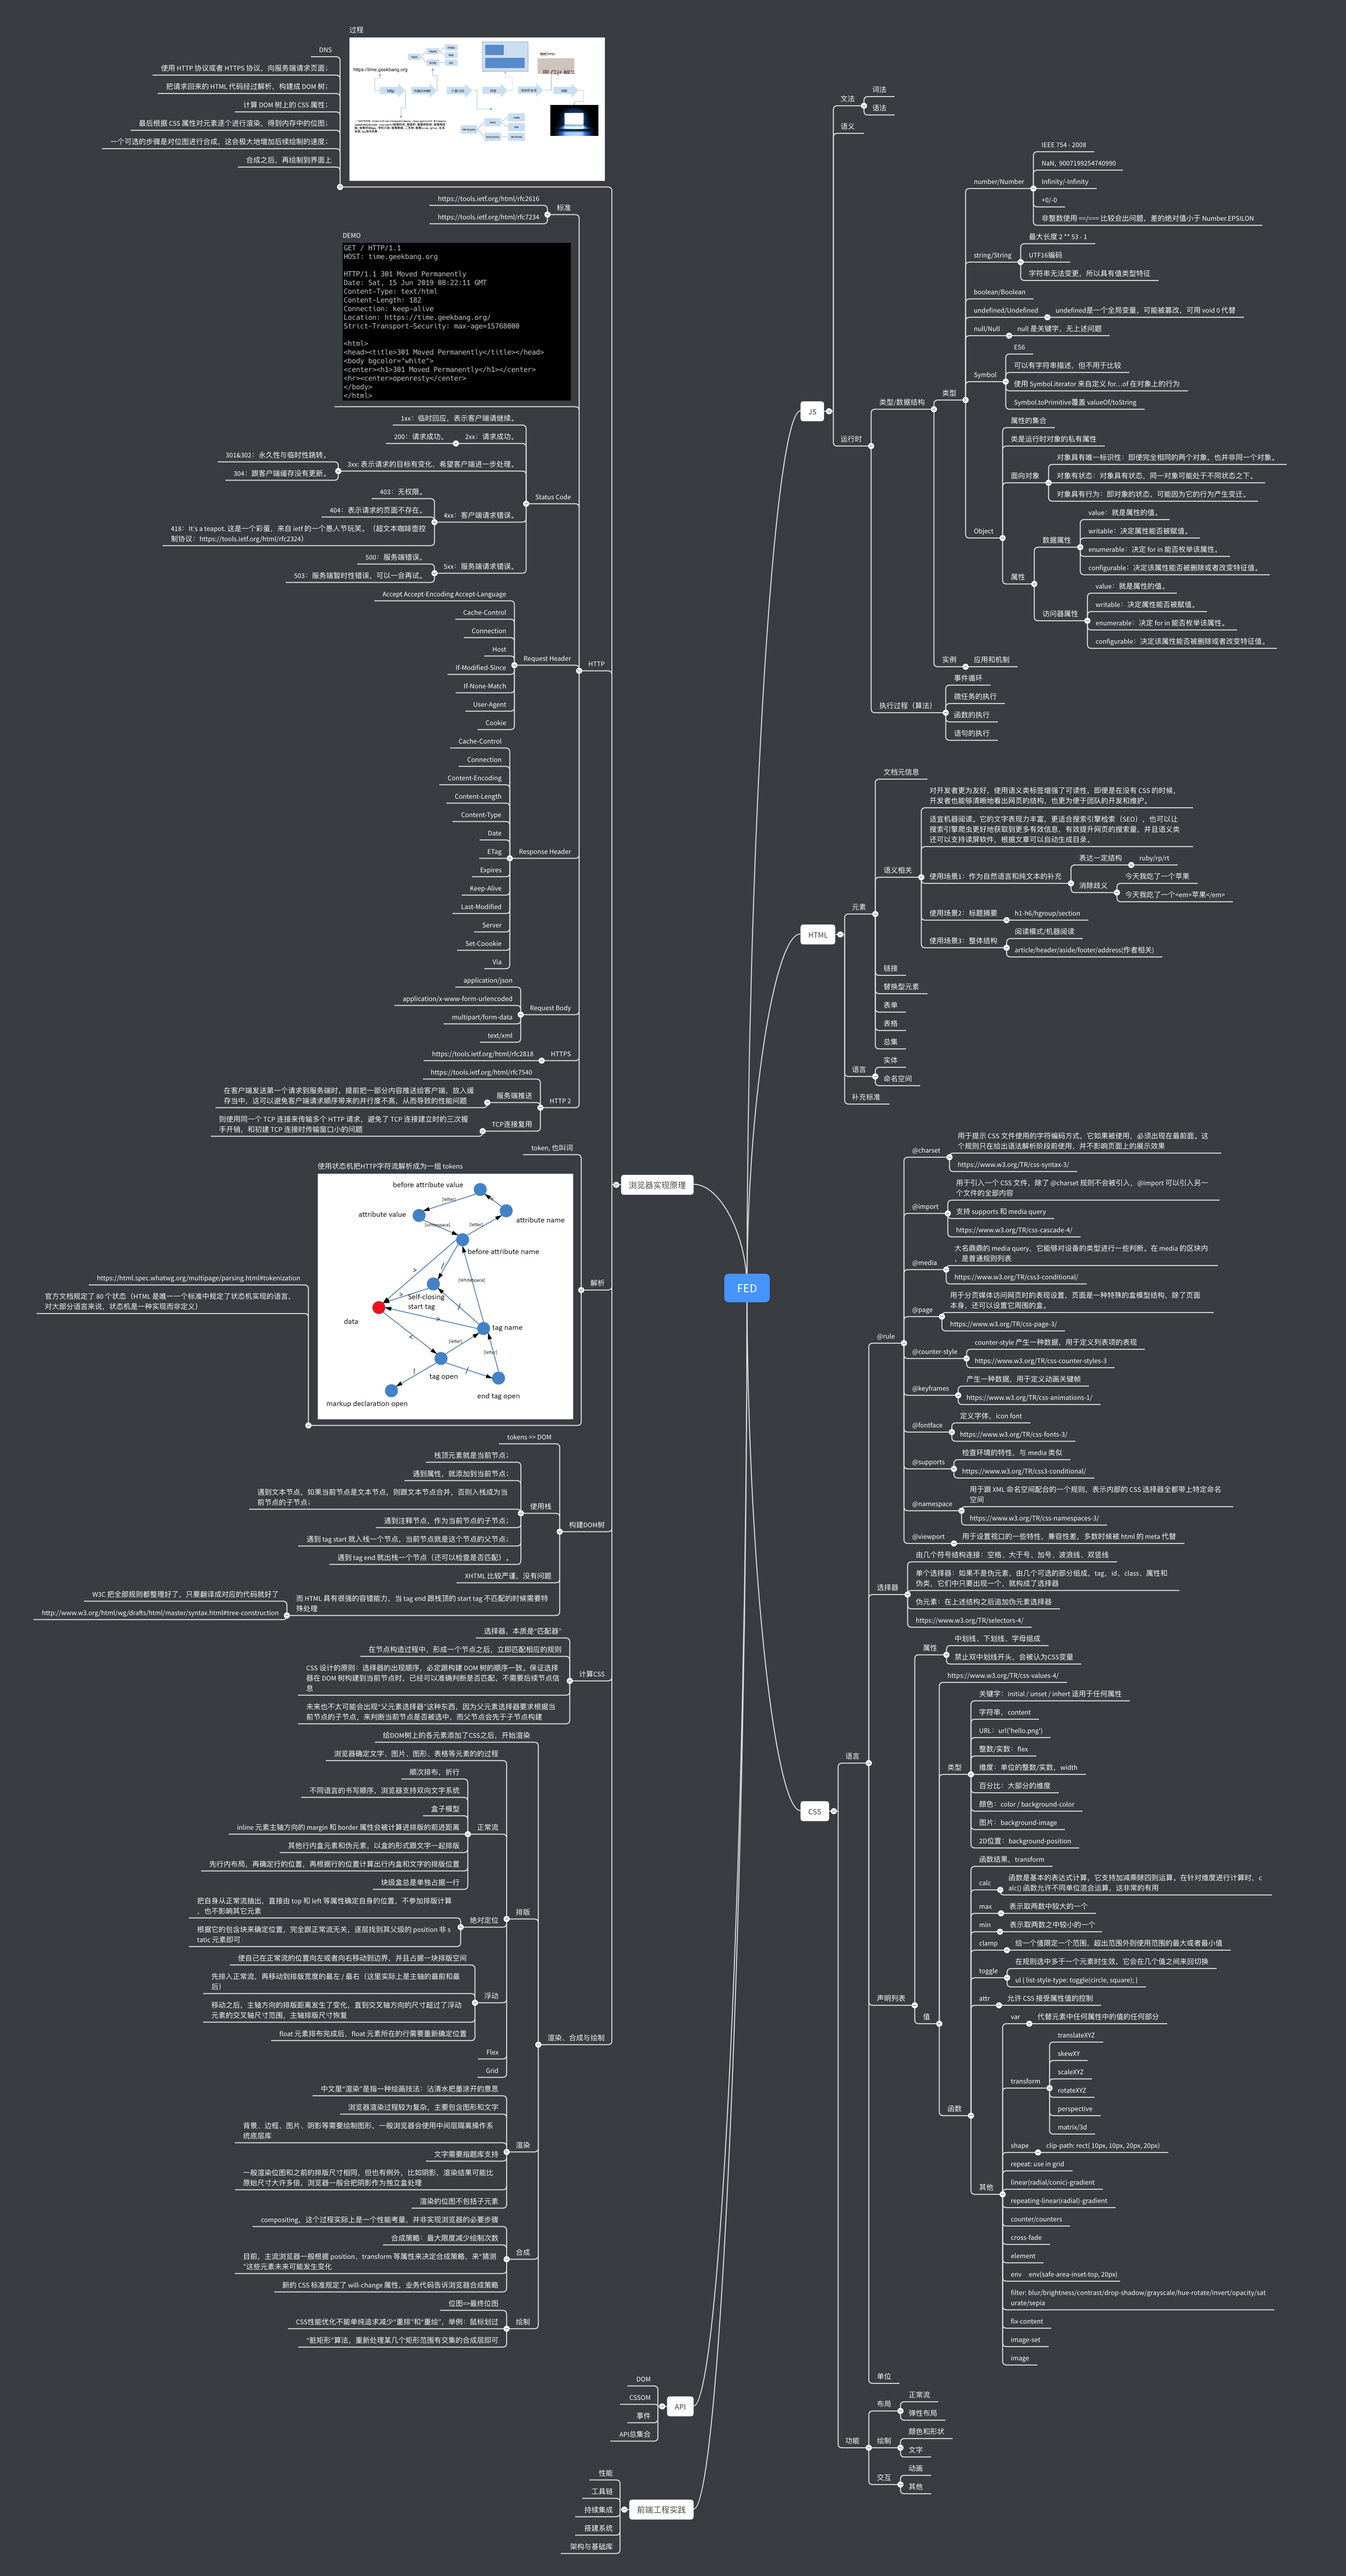
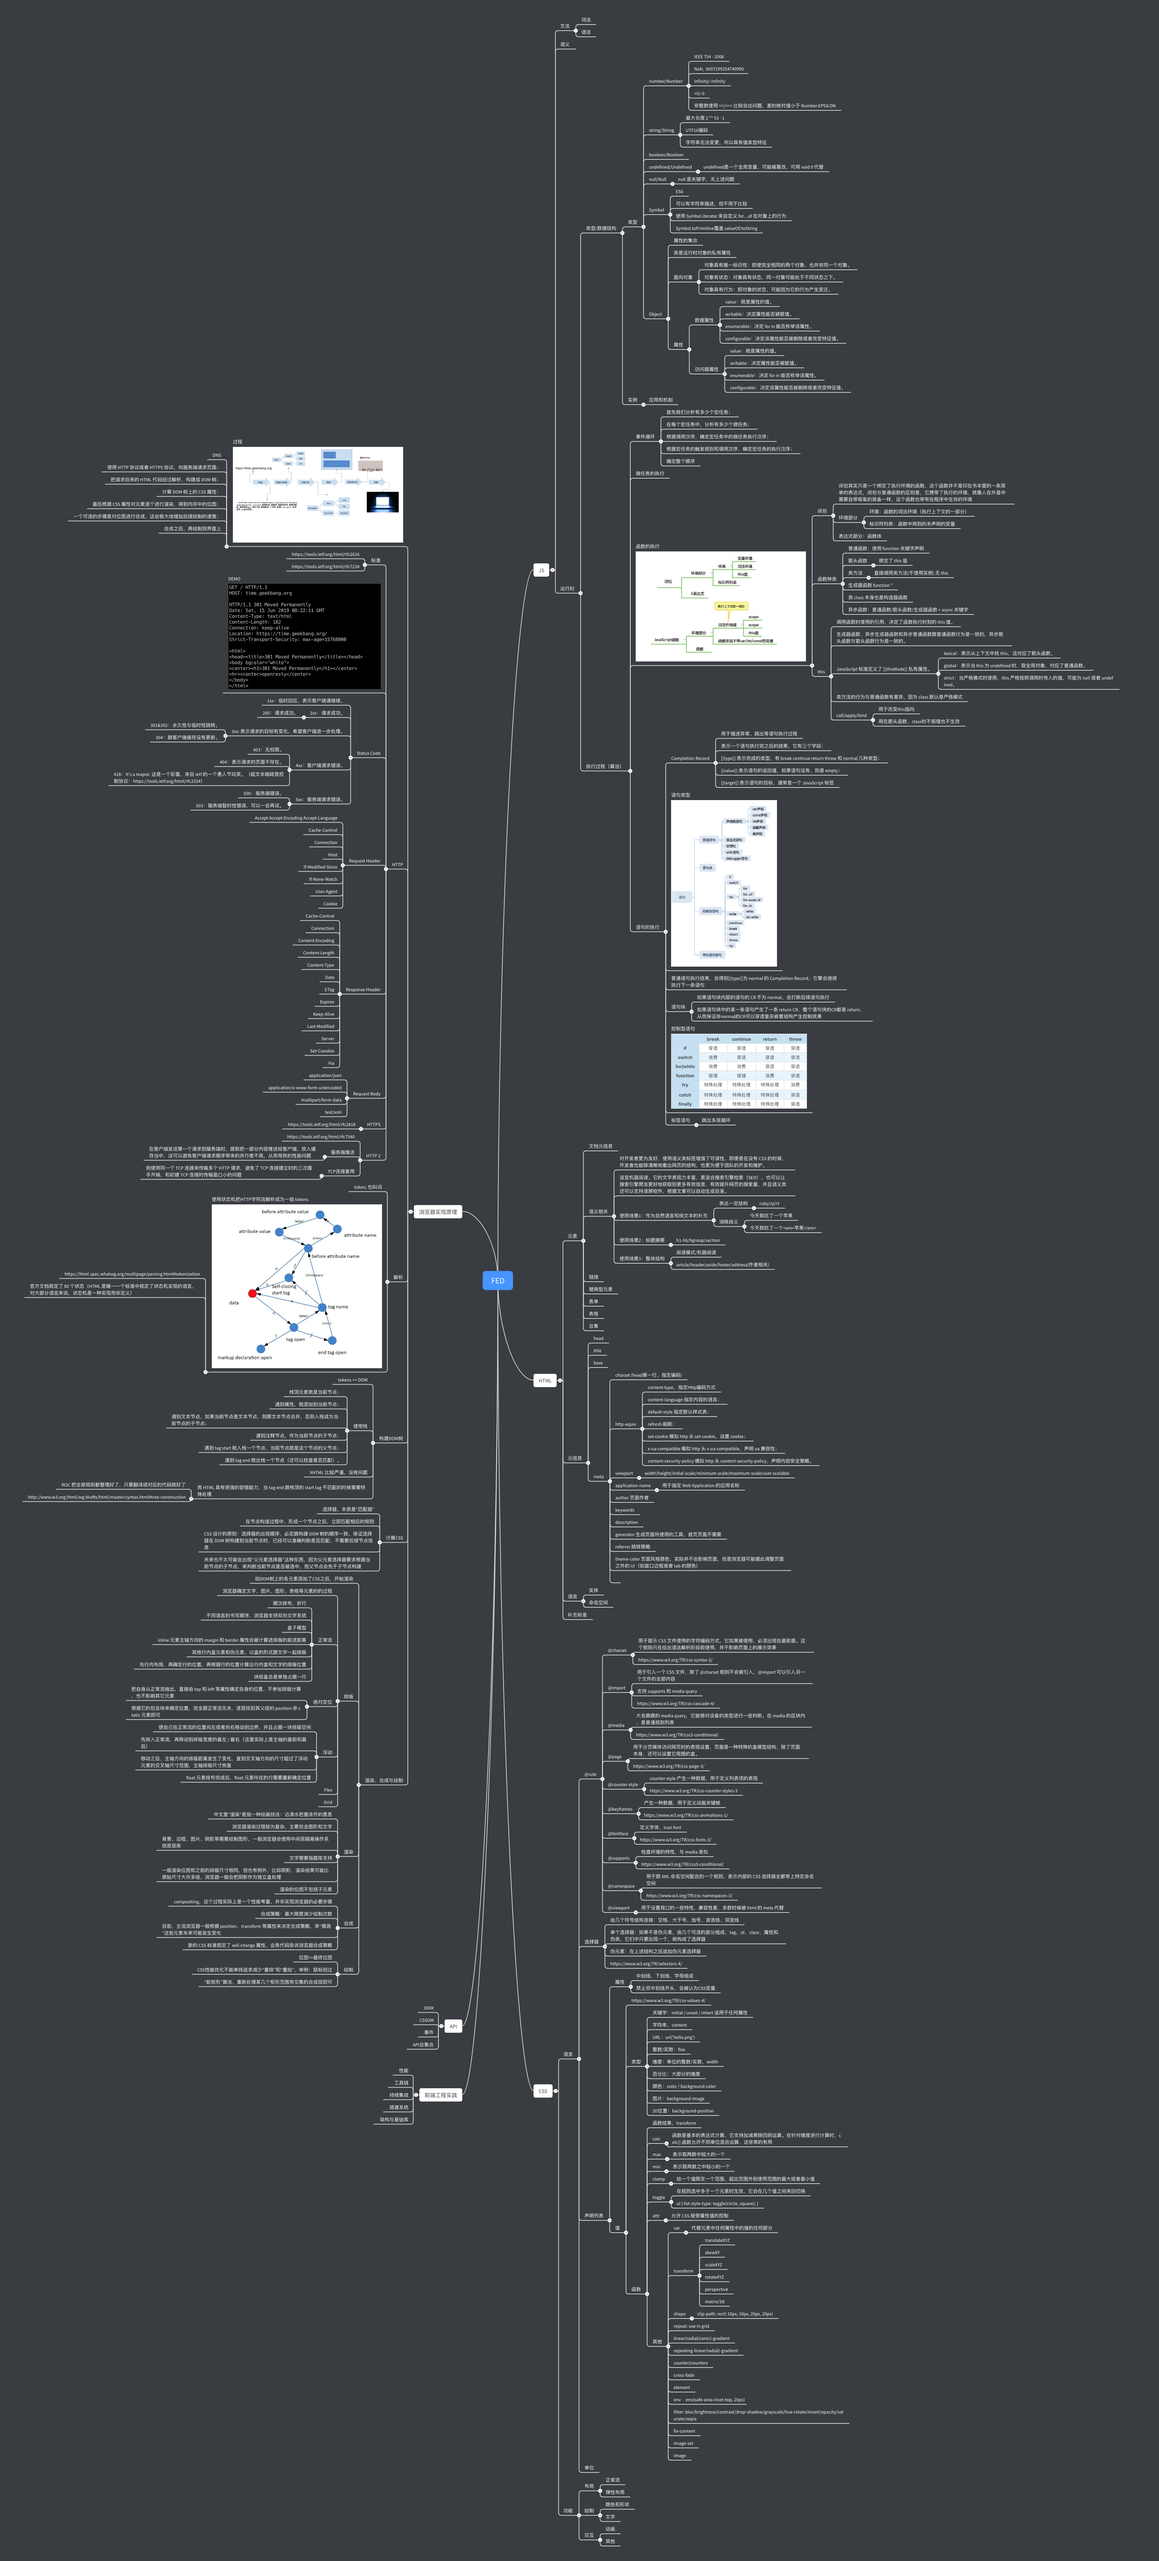
V5

diff --git a/TrafficLight.js b/TrafficLight.js
@@ -1,0 +1,24 @@
+function sleep(ms) {
+  return new Promise(resolve => {
+    setTimeout(resolve, ms);
+  });
+}
+
+async function turnLight(color) {
+  console.log(`Light color is ${color} now`);
+}
+
+async function TrafficLightController() {
+  while (true) {
+    turnLight('green');
+    await sleep(2000);
+
+    turnLight('yellow');
+    await sleep(1000);
+
+    turnLight('red');
+    await sleep(2000);
+  }
+}
+
+TrafficLightController();

diff --git a/FED.mm b/FED.mm
@@ -95,12 +95,102 @@
 		</node>
 		<node TEXT="执行过程（算法）" ID="27e16b564c9e180ff" STYLE="fork">
 		<node TEXT="事件循环" ID="22616b564febff0d" STYLE="fork">
+		<node TEXT="首先我们分析有多少个宏任务；" ID="3e316b5b7ca1760d7" STYLE="fork">
+		</node>
+		<node TEXT="在每个宏任务中，分析有多少个微任务；" ID="a216b5b7cf6ab1961" STYLE="fork">
+		</node>
+		<node TEXT="根据调用次序，确定宏任务中的微任务执行次序；" ID="11616b5b7cf6ab0fb2" STYLE="fork">
+		</node>
+		<node TEXT="根据宏任务的触发规则和调用次序，确定宏任务的执行次序；" ID="33016b5b7cf6ab0523" STYLE="fork">
+		</node>
+		<node TEXT="确定整个顺序" ID="2a316b5b7cf6ab164" STYLE="fork">
+		</node>
 		</node>
 		<node TEXT="微任务的执行" ID="17416b564ff9ef146" STYLE="fork">
 		</node>
 		<node TEXT="函数的执行" ID="31416b56503ee811" STYLE="fork">
+		<node TEXT="闭包" ID="1b916b5b89809a06f" STYLE="fork">
+		<node TEXT="闭包其实只是一个绑定了执行环境的函数，这个函数并不是印在书本里的一条简单的表达式，闭包与普通函数的区别是，它携带了执行的环境，就像人在外星中需要自带吸氧的装备一样，这个函数也带有在程序中生存的环境" ID="38c16b5b89f5cc12f" STYLE="fork">
+		</node>
+		<node TEXT="环境部分" ID="1ce16b5b8a63ec00a" STYLE="fork">
+		<node TEXT="环境：函数的词法环境（执行上下文的一部分）" ID="11316b5b8af8430ba1" STYLE="fork">
+		</node>
+		<node TEXT="标识符列表：函数中用到的未声明的变量" ID="2a916b5b8af8430dc2" STYLE="fork">
+		</node>
+		</node>
+		<node TEXT="表达式部分：函数体" ID="a816b5b8af8430333" STYLE="fork">
+		</node>
+		</node>
+		<node TEXT="函数种类" ID="3d016b5b8b123e125" STYLE="fork">
+		<node TEXT="普通函数：使用 function 关键字声明" ID="9d16b5b8fcd45041" STYLE="fork">
+		</node>
+		<node TEXT="箭头函数" ID="15716b5b90087517c" STYLE="fork">
+		<node TEXT="绑定了 this 值" ID="4016b5b935e8c094" STYLE="fork">
+		</node>
+		</node>
+		<node TEXT="类方法" ID="3316b5b903775118" STYLE="fork">
+		<node TEXT="直接调用类方法(不使用实例) 无 this" ID="1416b5b93a47d02e" STYLE="fork">
+		</node>
+		</node>
+		<node TEXT="生成器函数 function * " ID="27416b5b904f770fa" STYLE="fork">
+		</node>
+		<node TEXT="类 class 本身也是构造器函数" ID="15116b5b90894506c" STYLE="fork">
+		</node>
+		<node TEXT="异步函数：普通函数/箭头函数/生成器函数 + async 关键字" ID="1e016b5b90e7be0d3" STYLE="fork">
+		</node>
+		</node>
+		<node TEXT="this" ID="6616b5b91b2210f2" STYLE="fork">
+		<node TEXT="调用函数时使用的引用，决定了函数执行时刻的 this 值。" ID="2db16b5b92decd088" STYLE="fork">
+		</node>
+		<node TEXT="生成器函数、异步生成器函数和异步普通函数跟普通函数行为是一致的，异步箭头函数与箭头函数行为是一致的。" ID="1c516b5b92feb40c6" STYLE="fork">
+		</node>
+		<node TEXT="JavaScript 标准定义了 [[thisMode]] 私有属性。" ID="1c916b5b95c02102e" STYLE="fork">
+		<node TEXT="lexical：表示从上下文中找 this，这对应了箭头函数。" ID="c416b5b9ab1e51062" STYLE="fork">
+		</node>
+		<node TEXT="global：表示当 this 为 undefined 时，取全局对象，对应了普通函数。" ID="35f16b5b9ab1e50823" STYLE="fork">
+		</node>
+		<node TEXT="strict：当严格模式时使用，this 严格按照调用时传入的值，可能为 null 或者 undefined。" ID="16e16b5b9ab1e50d44" STYLE="fork">
+		</node>
+		</node>
+		<node TEXT="类方法的行为与普通函数有差异，因为 class 默认是严格模式" ID="1c916b5b9ab1e50da5" STYLE="fork">
+		</node>
+		<node TEXT="call/apply/bind" ID="39c16b5b9d5c4e147" STYLE="fork">
+		<node TEXT="用于改变this指向" ID="1ca16b5b9ff802062" STYLE="fork">
+		</node>
+		<node TEXT="用在箭头函数、class时不报错也不生效" ID="9e16b5ba0113b025" STYLE="fork">
+		</node>
+		</node>
+		</node>
 		</node>
 		<node TEXT="语句的执行" ID="5116b565050c005c" STYLE="fork">
+		<node TEXT="Completion Record" ID="27616b5bac9f4f0ce" STYLE="fork">
+		<node TEXT="用于描述异常、跳出等语句执行过程" ID="4316b5ba11315091" STYLE="fork">
+		</node>
+		<node TEXT="表示一个语句执行完之后的结果，它有三个字段：" ID="38016b5bac89400f41" STYLE="fork">
+		</node>
+		<node TEXT="[[type]] 表示完成的类型，有 break continue return throw 和 normal 几种类型；" ID="a616b5bac89400082" STYLE="fork">
+		</node>
+		<node TEXT="[[value]] 表示语句的返回值，如果语句没有，则是 empty；" ID="3d616b5bac894002a3" STYLE="fork">
+		</node>
+		<node TEXT="[[target]] 表示语句的目标，通常是一个 JavaScript 标签" ID="20216b5bac894003a4" STYLE="fork">
+		</node>
+		</node>
+		<node TEXT="语句类型" ID="2a016b5bad6e2f0d9" STYLE="fork">
+		</node>
+		<node TEXT="普通语句执行结束，会得到[[type]]为 normal 的 Completion Record，引擎会继续执行下一条语句" ID="33616b5baed13211f" STYLE="fork">
+		</node>
+		<node TEXT="语句块" ID="1516b5bb0095513d" STYLE="fork">
+		<node TEXT="如果语句块内部的语句的 CR 不为 normal，会打断后续语句执行" ID="16e16b5bb1ee11161" STYLE="fork">
+		</node>
+		<node TEXT="如果语句块中的某一条语句产生了一条 return CR，整个语句块的CR都是 return，从而保证非normal的CR可以穿透复杂嵌套结构产生控制效果" ID="31816b5bb365c4194" STYLE="fork">
+		</node>
+		</node>
+		<node TEXT="控制型语句" ID="21116b5bb4a99f0fc" STYLE="fork">
+		</node>
+		<node TEXT="标签语句" ID="21d16b5bb4ebaf173" STYLE="fork">
+		<node TEXT="跳出多层循环" ID="1b916b5bb6c65e0e8" STYLE="fork">
+		</node>
+		</node>
 		</node>
 		</node>
 		</node>
@@ -146,6 +236,56 @@
 		<node TEXT="表格" ID="30216b565447f607a" STYLE="fork">
 		</node>
 		<node TEXT="总集" ID="2ac16b56544f48091" STYLE="fork">
+		</node>
+		</node>
+		<node TEXT="元信息" ID="24016b5a95d6a90d4" STYLE="fork">
+		<node TEXT="head" ID="2b916b5a95e6960e1" STYLE="fork">
+		</node>
+		<node TEXT="title" ID="2a716b5a95ec16171" STYLE="fork">
+		</node>
+		<node TEXT="base" ID="3df16b5b72ae2a0d" STYLE="fork">
+		</node>
+		<node TEXT="meta" ID="18316b5b72b68a07" STYLE="fork">
+		<node TEXT="charset (head第一行，指定编码)" ID="3d716b5b731cc306d" STYLE="fork">
+		</node>
+		<node TEXT="http-equiv" ID="15c16b5b73b5440fd" STYLE="fork">
+		<node TEXT="content-type，指定Http编码方式" ID="31316b5b7419f3178" STYLE="fork">
+		</node>
+		<node TEXT="content-language 指定内容的语言；" ID="3bd16b5b74a4a80f61" STYLE="fork">
+		</node>
+		<node TEXT="default-style 指定默认样式表；" ID="1d216b5b74a4a80bf2" STYLE="fork">
+		</node>
+		<node TEXT="refresh 刷新；" ID="3c616b5b74a4a81553" STYLE="fork">
+		</node>
+		<node TEXT="set-cookie 模拟 http 头 set-cookie，设置 cookie；" ID="18516b5b74a4a80b4" STYLE="fork">
+		</node>
+		<node TEXT="x-ua-compatible 模拟 http 头 x-ua-compatible，声明 ua 兼容性；" ID="35716b5b74a4a81515" STYLE="fork">
+		</node>
+		<node TEXT="content-security-policy 模拟 http 头 content-security-policy，声明内容安全策略。" ID="11116b5b74a4a80f36" STYLE="fork">
+		</node>
+		</node>
+		<node TEXT="viewport" ID="7816b5b75063f036" STYLE="fork">
+		<node TEXT="width/height/initial-scale/minimum-scale/maximum-scale/user-scalable" ID="39916b5b753816121" STYLE="fork">
+		</node>
+		</node>
+		<node TEXT="application-name" ID="27d16b5b76283a0ab" STYLE="fork">
+		<node TEXT="用于指定 Web Application 的应用名称" ID="3e616b5b7650aa0b" STYLE="fork">
+		</node>
+		</node>
+		<node TEXT="author 页面作者" ID="23516b5b76b219025" STYLE="fork">
+		</node>
+		<node TEXT="keywords" ID="21e16b5b7773db143" STYLE="fork">
+		</node>
+		<node TEXT="description" ID="16c16b5b76d36912b" STYLE="fork">
+		</node>
+		<node TEXT="generator 生成页面所使用的工具，首页页面不需要" ID="25a16b5b76f0620be" STYLE="fork">
+		</node>
+		<node TEXT="referrer 跳转策略" ID="2bf16b5b779905046" STYLE="fork">
+		</node>
+		<node TEXT="theme-color 页面风格颜色，实际并不会影响页面，但是浏览器可能据此调整页面之外的 UI（如窗口边框或者 tab 的颜色）" ID="19c16b5b77c6dc06b" STYLE="fork">
+		</node>
+		<node TEXT="" ID="1a16b5b78231502d" STYLE="fork">
+		</node>
 		</node>
 		</node>
 		<node TEXT="语言" ID="37916b565474c803" STYLE="fork">
